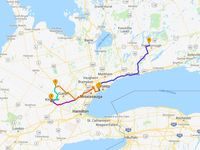
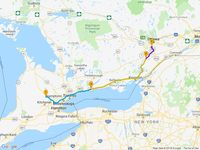
Added first day and plan

diff --git a/create_map.js b/create_map.js
@@ -12,7 +12,7 @@ else {
   const browser = await puppeteer.launch();
   const page = await browser.newPage();
   page.setDefaultNavigationTimeout(60000);
-  await page.goto('http://localhost:4000/map/?embed=true)' + params);
+  await page.goto('http://localhost:4000/map/?embed=true' + params);
   await page.waitForSelector('#map-loaded');
   const text = await page.evaluate(el => el.innerHTML, await page.$('#map-loaded'));
   await page.screenshot({path: name + '.jpg'});

diff --git a/source/_posts/Plan.md b/source/_posts/Plan.md
@@ -1,0 +1,7 @@
+---
+title: Plan
+date: 2018-06-07 23:34:33
+tags:
+thumbnailImage: map.jpg
+link: plan
+---

diff --git a/source/plan/index.md b/source/plan/index.md
@@ -1,0 +1,6 @@
+---
+title: plan
+date: 2018-06-09 16:47:36
+layout: "plan"
+comments: false
+---
